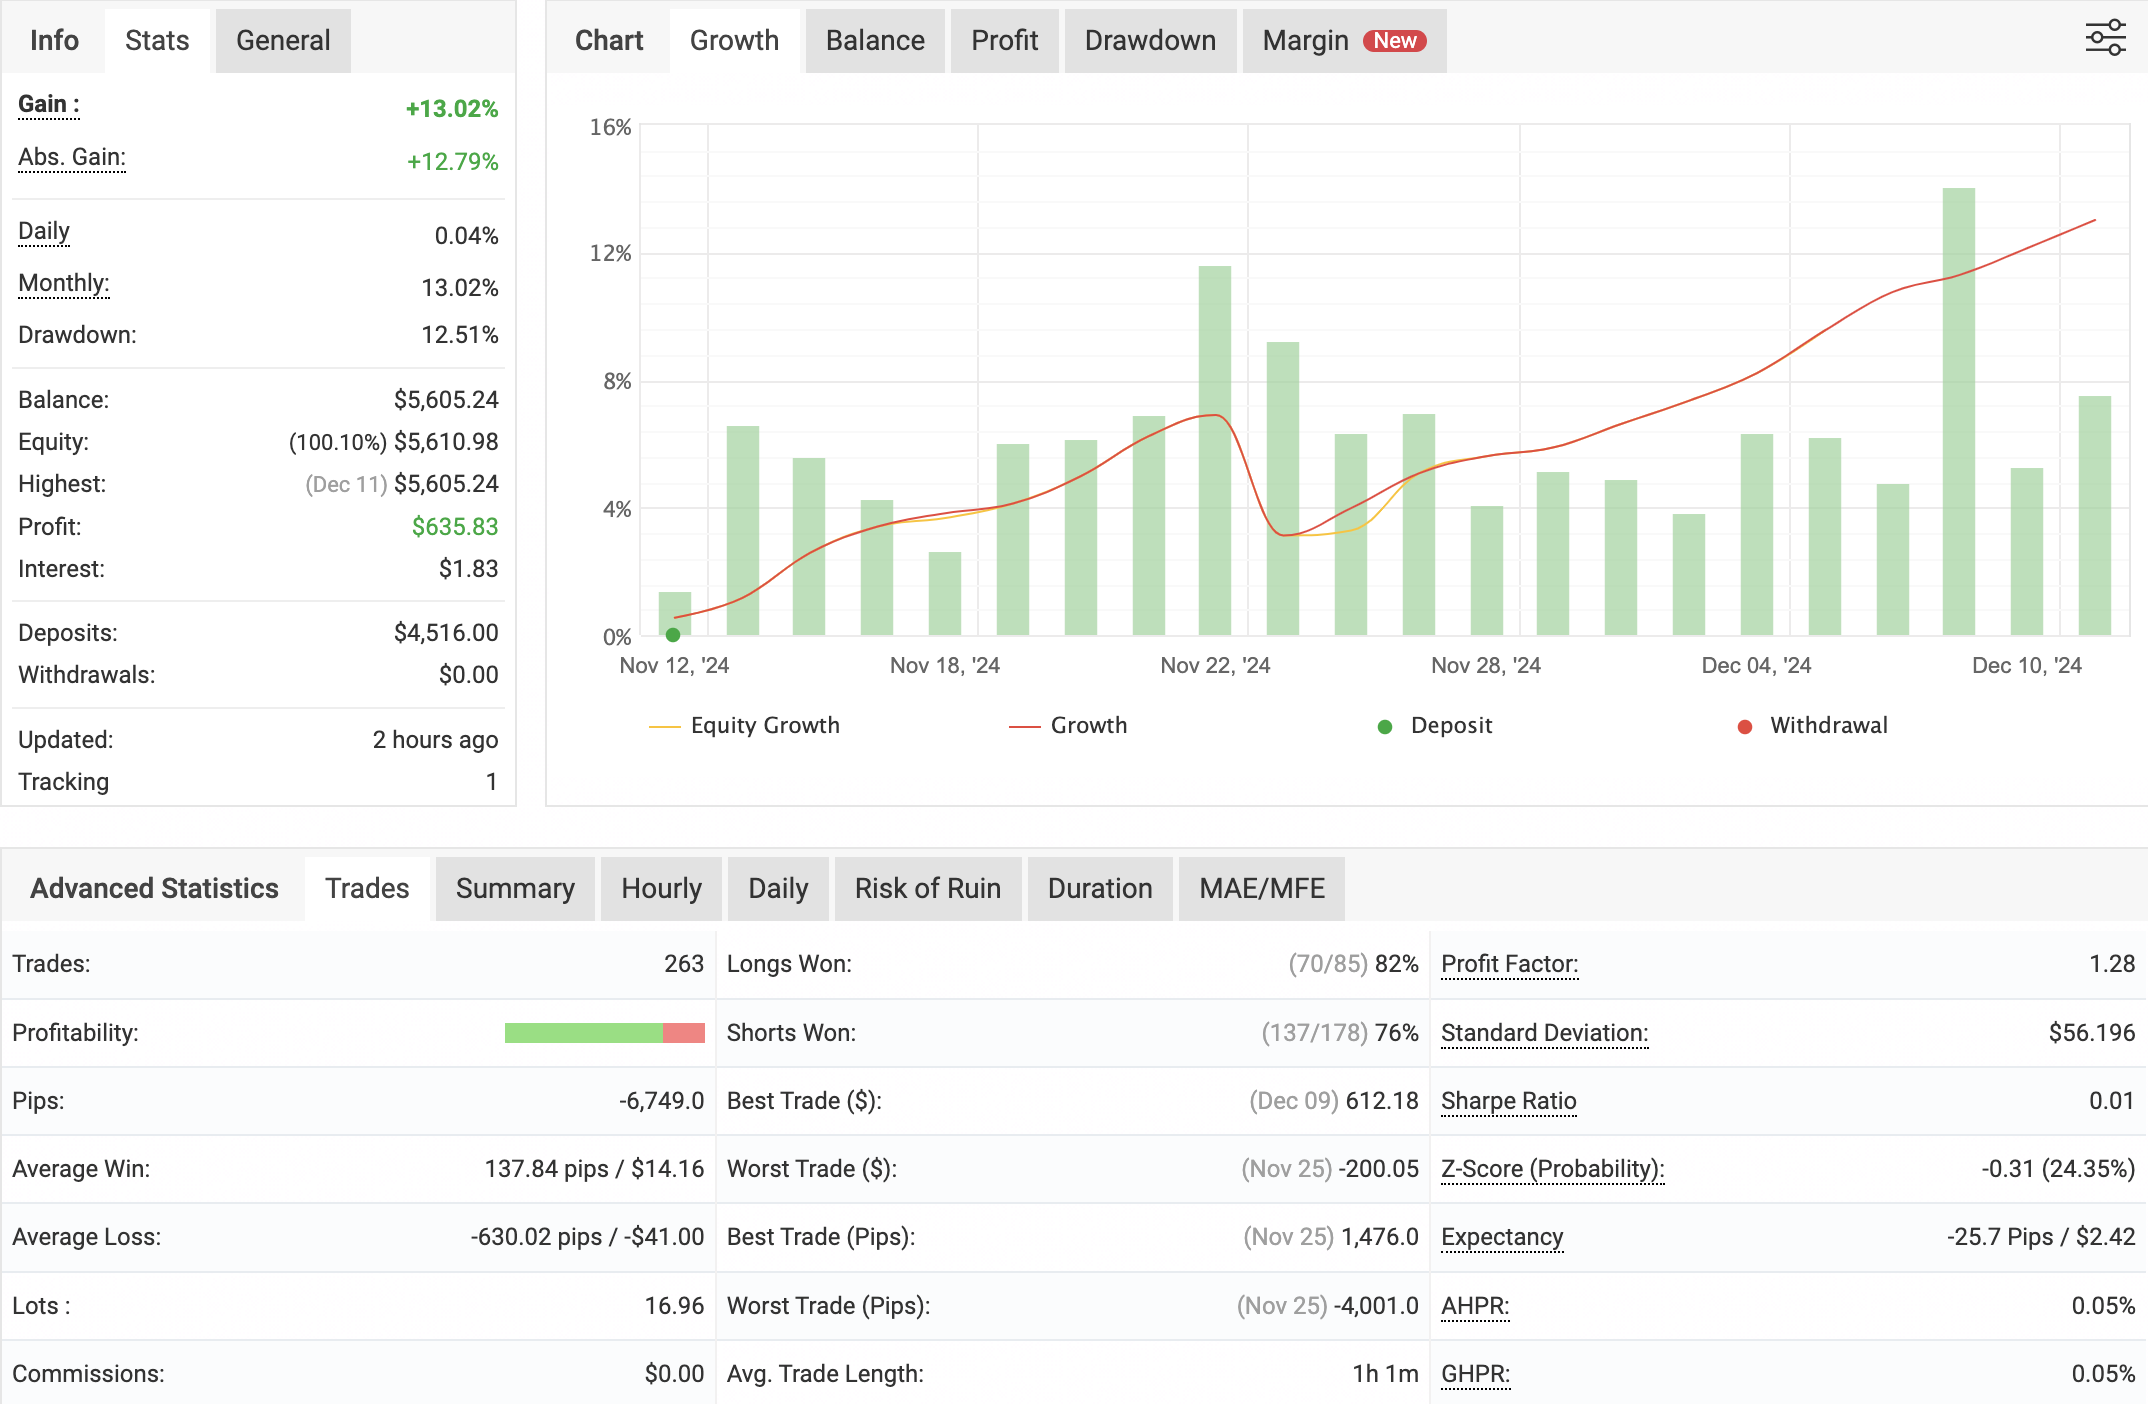
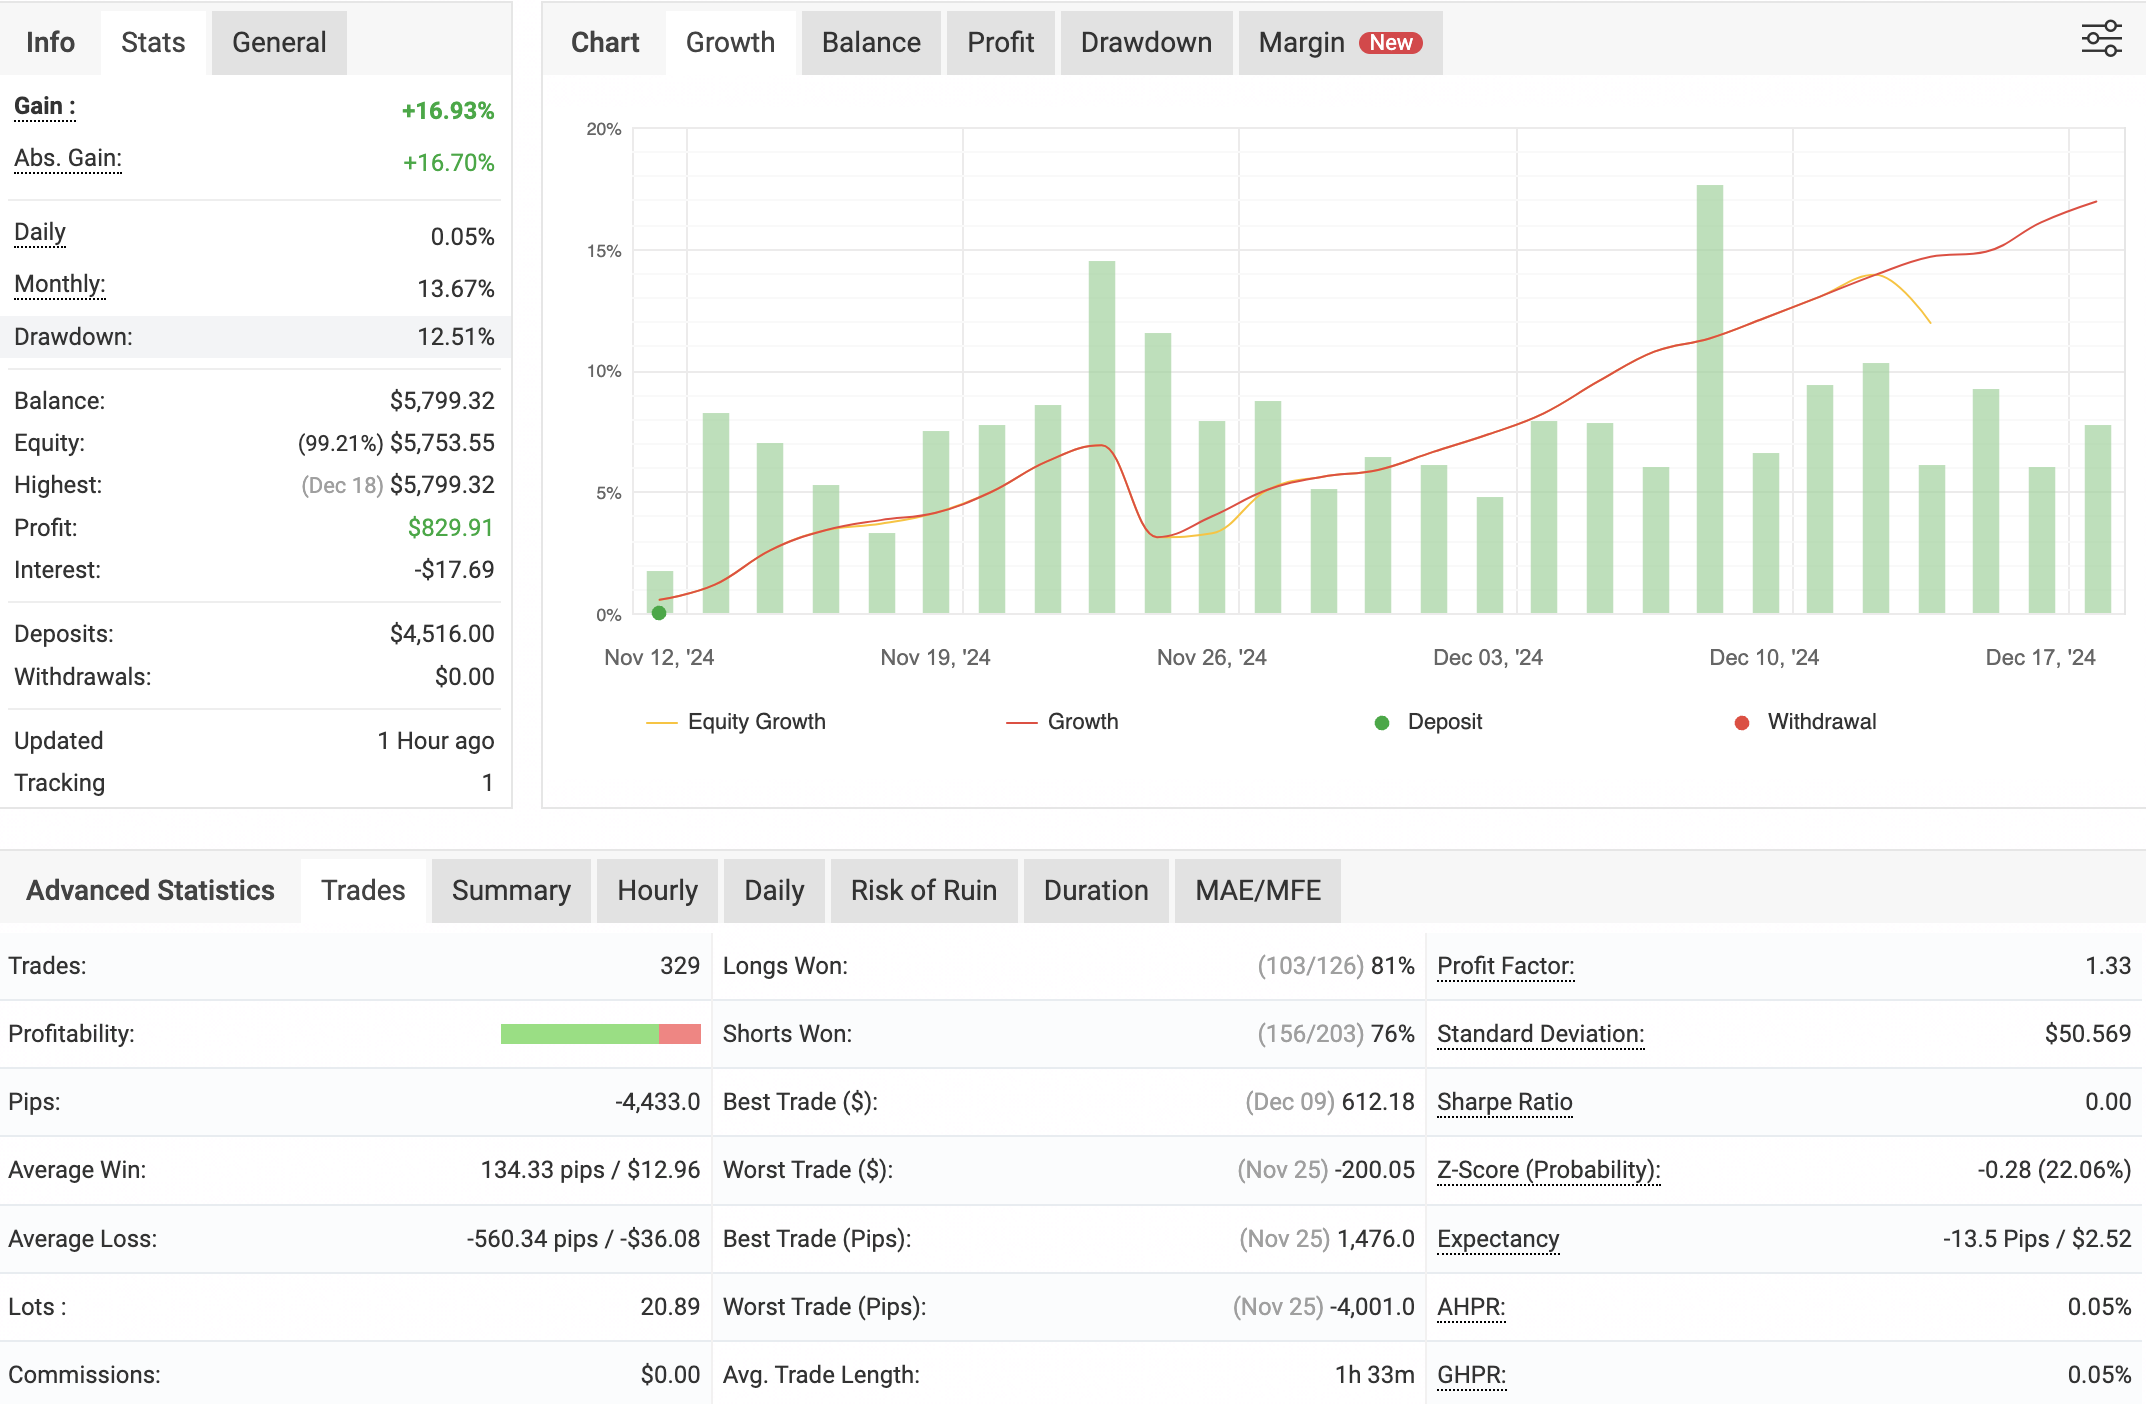
updated for Dec 18

diff --git a/index.html b/index.html
@@ -469,7 +469,7 @@ j=d.createElement(s),dl=l!='dataLayer'?'&l='+l:'';j.async=true;j.src=
             <h3>LiteFinance Account Performance</h3>
             <img src="litefinance-current-performance.png" alt="LiteFinance Account Performance Graph">
             <p style="text-align: center; font-size: 0.9em; color: #555;">
-                Updated: December 12, 2024 — Covers performance from November 12 to December 11, 2024.
+                Updated: December 19, 2024 — Covers performance from November 12 to December 18, 2024.
             </p>
             <table>
                 <tr>
@@ -478,61 +478,64 @@ j=d.createElement(s),dl=l!='dataLayer'?'&l='+l:'';j.async=true;j.src=
                 </tr>
                 <tr>
                     <td>Gain</td>
-                    <td>+13.02%</td>
+                    <td>+16.93%</td>
                 </tr>
                 <tr>
                     <td>Daily Profit</td>
-                    <td>0.04%</td>
+                    <td>0.05%</td>
                 </tr>
                 <tr>
                     <td>Monthly Profit</td>
-                    <td>+13.02%</td>
+                    <td>+13.67%</td>
                 </tr>
                 <tr>
                     <td>Balance</td>
-                    <td>$5,605.24 (Cents)</td>
+                    <td>$5,799.32 (Cents)</td>
                 </tr>
                 <tr>
                     <td>Total Trades</td>
-                    <td>263</td>
+                    <td>329</td>
                 </tr>
                 <tr>
                     <td>Profitability</td>
-                    <td>82%</td>
+                    <td>81%</td>
                 </tr>
                 <tr>
                     <td>Pips</td>
-                    <td>-6,749.0</td>
+                    <td>-4,433.0</td>
                 </tr>
                 <tr>
                     <td>Average Win</td>
-                    <td>137.84 pips / $14.16</td>
+                    <td>134.33 pips / $12.96</td>
                 </tr>
                 <tr>
                     <td>Average Loss</td>
-                    <td>-630.02 pips / -$41.00</td>
+                    <td>-560.34 pips / -$36.08</td>
                 </tr>
                 <tr>
                     <td>Lots Traded</td>
-                    <td>16.96</td>
+                    <td>20.89</td>
                 </tr>
                 <tr>
                     <td>Profit Factor</td>
-                    <td>1.28</td>
+                    <td>1.33</td>
                 </tr>
                 <tr>
                     <td>Sharpe Ratio</td>
-                    <td>0.01</td>
+                    <td>0.00</td>
                 </tr>
                 <tr>
                     <td>Expectancy</td>
-                    <td>-25.7 Pips / $2.42</td>
+                    <td>-13.5 Pips / $2.52</td>
                 </tr>
                 <tr>
                     <td>Average Trade Length</td>
-                    <td>1h 1m</td>
+                    <td>1h 33m</td>
                 </tr>
             </table>
+            <p style="text-align: center; font-size: 0.9em; color: #555;"></p>
+                📈 View detailed performance on <a href="https://bit.ly/forex-copytrade" target="_blank" rel="noopener noreferrer">LiteFinance</a>.
+            </p>
         </div>
 
         <!-- RoboForex Account -->
@@ -540,7 +543,7 @@ j=d.createElement(s),dl=l!='dataLayer'?'&l='+l:'';j.async=true;j.src=
             <h3>RoboForex Account Performance</h3>
             <img src="roboforex-current-performance.png" alt="RoboForex Account Performance Graph">
             <p style="text-align: center; font-size: 0.9em; color: #555;"></p>
-                Updated: December 12, 2024 — Covers performance from November 16 to December 11, 2024.
+                Updated: December 19, 2024 — Covers performance from November 16 to December 18, 2024.
             </p>
             <table>
                 <tr>
@@ -549,47 +552,47 @@ j=d.createElement(s),dl=l!='dataLayer'?'&l='+l:'';j.async=true;j.src=
                 </tr>
                 <tr>
                     <td>Gain</td>
-                    <td>+17.72%</td>
+                    <td>+21.44%</td>
                 </tr>
                 <tr>
                     <td>Daily Profit</td>
-                    <td>0.63%</td>
+                    <td>0.59%</td>
                 </tr>
                 <tr>
                     <td>Monthly Profit</td>
-                    <td>+17.72%</td>
+                    <td>+19.31%</td>
                 </tr>
                 <tr>
                     <td>Balance</td>
-                    <td>$11,773.25 (Cents)</td>
+                    <td>$12,144.64 (Cents)</td>
                 </tr>
                 <tr>
                     <td>Total Trades</td>
-                    <td>181</td>
+                    <td>237</td>
                 </tr>
                 <tr>
                     <td>Profitability</td>
-                    <td>82%</td>
+                    <td>79%</td>
                 </tr>
                 <tr>
                     <td>Pips</td>
-                    <td>4,481.0</td>
+                    <td>-3,871.0</td>
                 </tr>
                 <tr>
                     <td>Average Win</td>
-                    <td>158.49 pips / $27.82</td>
+                    <td>155.96 pips / $36.91</td>
                 </tr>
                 <tr>
                     <td>Average Loss</td>
-                    <td>-622.35 pips / -$77.44</td>
+                    <td>-751.44 pips / -$109.86</td>
                 </tr>
                 <tr>
                     <td>Lots Traded</td>
-                    <td>23.09</td>
+                    <td>34.87</td>
                 </tr>
                 <tr>
                     <td>Profit Factor</td>
-                    <td>1.74</td>
+                    <td>1.43</td>
                 </tr>
                 <tr>
                     <td>Sharpe Ratio</td>
@@ -597,11 +600,11 @@ j=d.createElement(s),dl=l!='dataLayer'?'&l='+l:'';j.async=true;j.src=
                 </tr>
                 <tr>
                     <td>Expectancy</td>
-                    <td>24.8 Pips / $9.79</td>
+                    <td>-16.3 Pips / $9.05</td>
                 </tr>
                 <tr>
                     <td>Average Trade Length</td>
-                    <td>2h 4m</td>
+                    <td>2h 36m</td>
                 </tr>
             </table>
             <p style="text-align: center; font-size: 0.9em; color: #555;">
